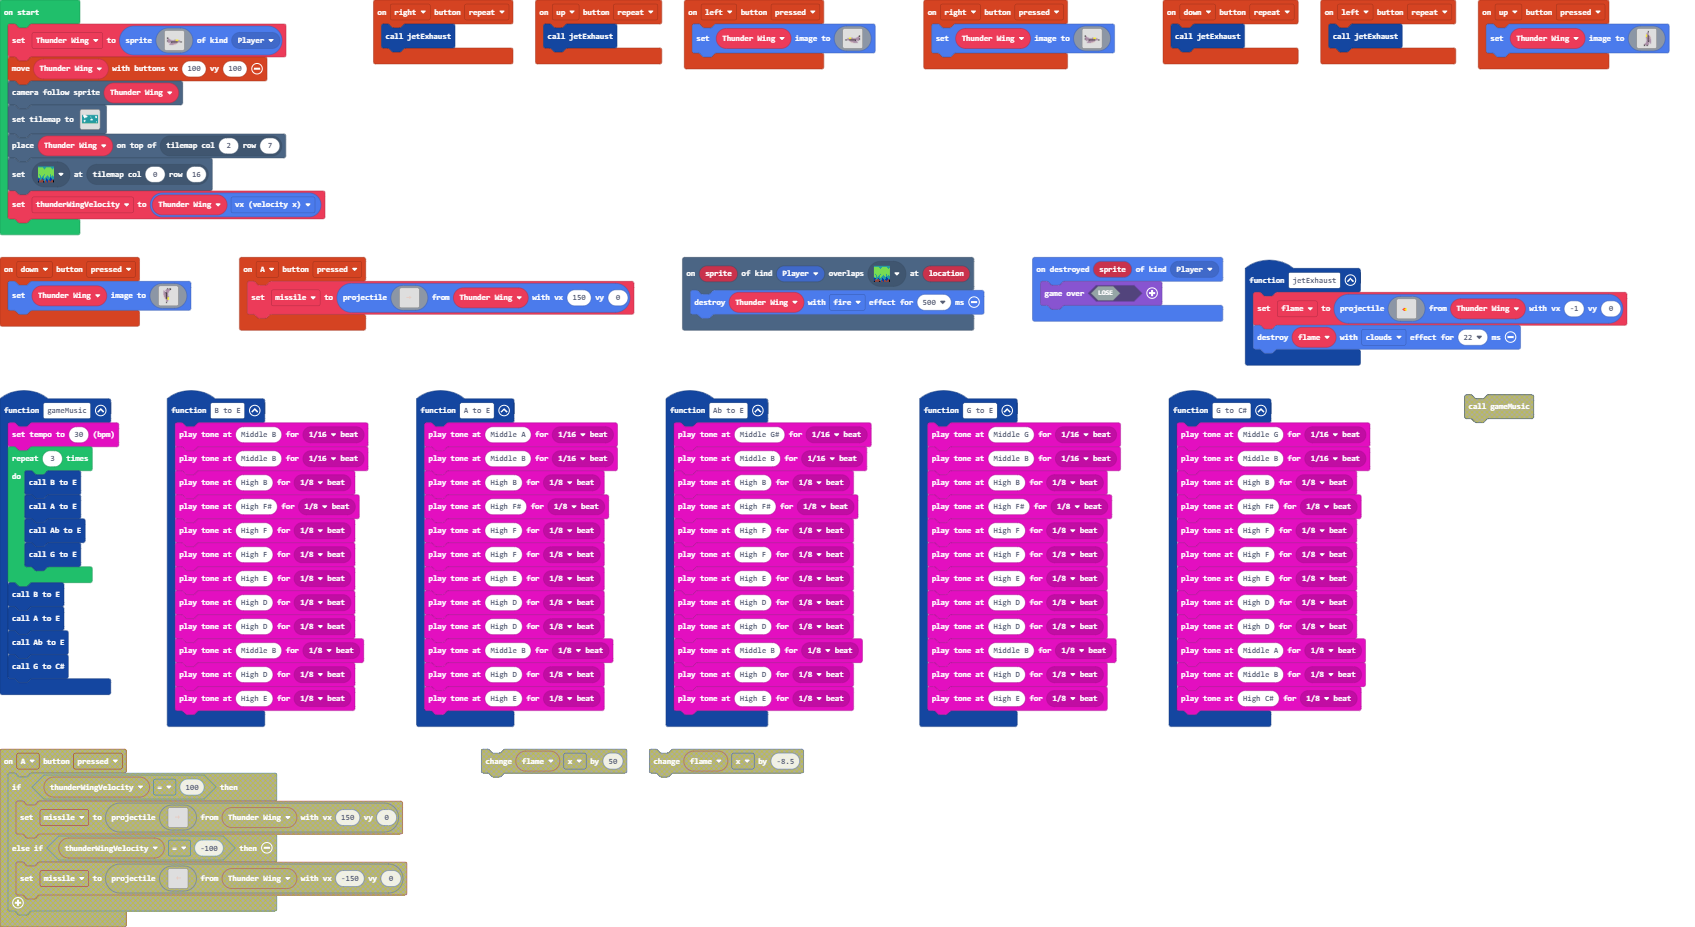
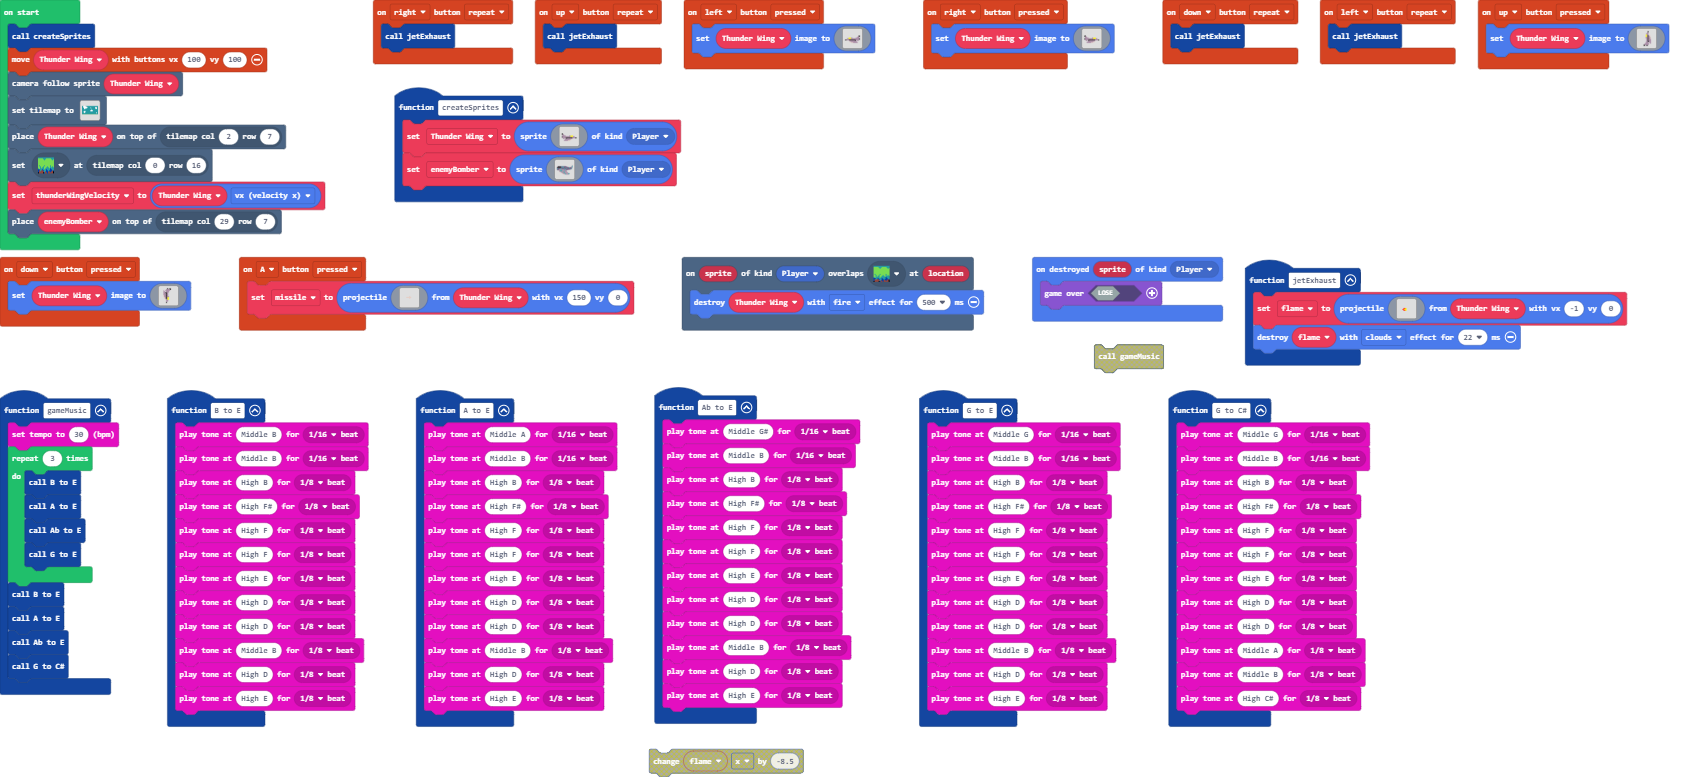
Update main.blocks, main.ts

diff --git a/main.ts b/main.ts
@@ -168,6 +168,60 @@ function gameMusic () {
     Ab_to_E()
     G_to_C()
 }
+function createSprites () {
+    Thunder_Wing = sprites.create(img`
+        ........................
+        ........................
+        ........................
+        ........................
+        .ff.....................
+        .fbb....................
+        ..bbb...................
+        ..bbbbb.....bb5555......
+        .fbbbbbbbbbbbb5555bb....
+        .fbbbbbbbbbbbbbbbbbbb...
+        ..bbbbbffffffffffbbbbff.
+        ...bb..fbbbbbbbbb.......
+        ......bbbbbbbbbd........
+        .....bbbbbbbbdd.........
+        ....bbbbbbddd...........
+        ........................
+        `, SpriteKind.Player)
+    enemyBomber = sprites.create(img`
+        ................................................
+        ................................................
+        ................................................
+        ...............................................b
+        ...............................................b
+        ..............................................6b
+        .............................................b66
+        ...ccccccccc66cccccccccccccc................b666
+        ...ffffffffff66cc66666cccccccc.............bb666
+        ..fffffffffffccc66666ccccccccccccc.........bbb66
+        ccfffffffffffccc66666cccccccccccccccc66cccccbb6b
+        ccffffffffffcccccc666ccccc666cccccccc666cccccbb.
+        cccccccccccccccccccccccccc666c66ccccc666ccc6ccb.
+        c666cccccccc666cccccccccccccc666cccccccccc666c..
+        c666cccc6666666cccccccc66cccc666cccccccccc6666..
+        c66cccccc66666ccccccc6666cccccccccccccccccccc...
+        cc6ccccbbbbbbbbbbbbbb6666bbcccccccccccccc.......
+        .cccccbbbbbbbbbbbbbbbbb666bbccccccc.............
+        ..ccccbbbbbb666bbbbbbbb666bbb...................
+        .......bbb6666666bbbbbbb66bbbb..................
+        .......bbb6666666bbbbbbb66bbbb..................
+        .......bbbb66666bbbbbbbbbbbbbb..................
+        .......dcbbb666bbbbbbbbbbbbbbb..................
+        .......ddbbbbbbbbbbb6666bbbbbbb.................
+        ...........dcbbbbbbb6666bbbbbbbb................
+        ...........ddbbbbbbb66666bbbbbbbb...............
+        ..............dcbbbbb6666bbbbbbbbb..............
+        ..............ddbbbbbbbbbbbbbbbbbbb.............
+        .................dcbbbbbbbbbbbbbbb6666..........
+        .................ddbbbbb6666bbbbbb6666b.........
+        .....................dcb6666bbbbbbb666..........
+        .....................dd...66bbbbbbbbb...........
+        `, SpriteKind.Player)
+}
 controller.down.onEvent(ControllerButtonEvent.Repeated, function () {
     jetExhaust()
 })
@@ -238,28 +292,13 @@ controller.left.onEvent(ControllerButtonEvent.Repeated, function () {
 })
 let flame: Sprite = null
 let missile: Sprite = null
+let enemyBomber: Sprite = null
 let Thunder_Wing: Sprite = null
-Thunder_Wing = sprites.create(img`
-    ........................
-    ........................
-    ........................
-    ........................
-    .ff.....................
-    .fbb....................
-    ..bbb...................
-    ..bbbbb.....bb5555......
-    .fbbbbbbbbbbbb5555bb....
-    .fbbbbbbbbbbbbbbbbbbb...
-    ..bbbbbffffffffffbbbbff.
-    ...bb..fbbbbbbbbb.......
-    ......bbbbbbbbbbd.......
-    .....bbbbbbbbbdd........
-    ....bbbbbbbddd..........
-    ........................
-    `, SpriteKind.Player)
+createSprites()
 controller.moveSprite(Thunder_Wing, 100, 100)
 scene.cameraFollowSprite(Thunder_Wing)
 tiles.setTilemap(tilemap`level1`)
 tiles.placeOnTile(Thunder_Wing, tiles.getTileLocation(2, 7))
 tiles.setTileAt(tiles.getTileLocation(0, 16), sprites.builtin.forestTiles2)
 let thunderWingVelocity = Thunder_Wing.vx
+tiles.placeOnTile(enemyBomber, tiles.getTileLocation(29, 7))
